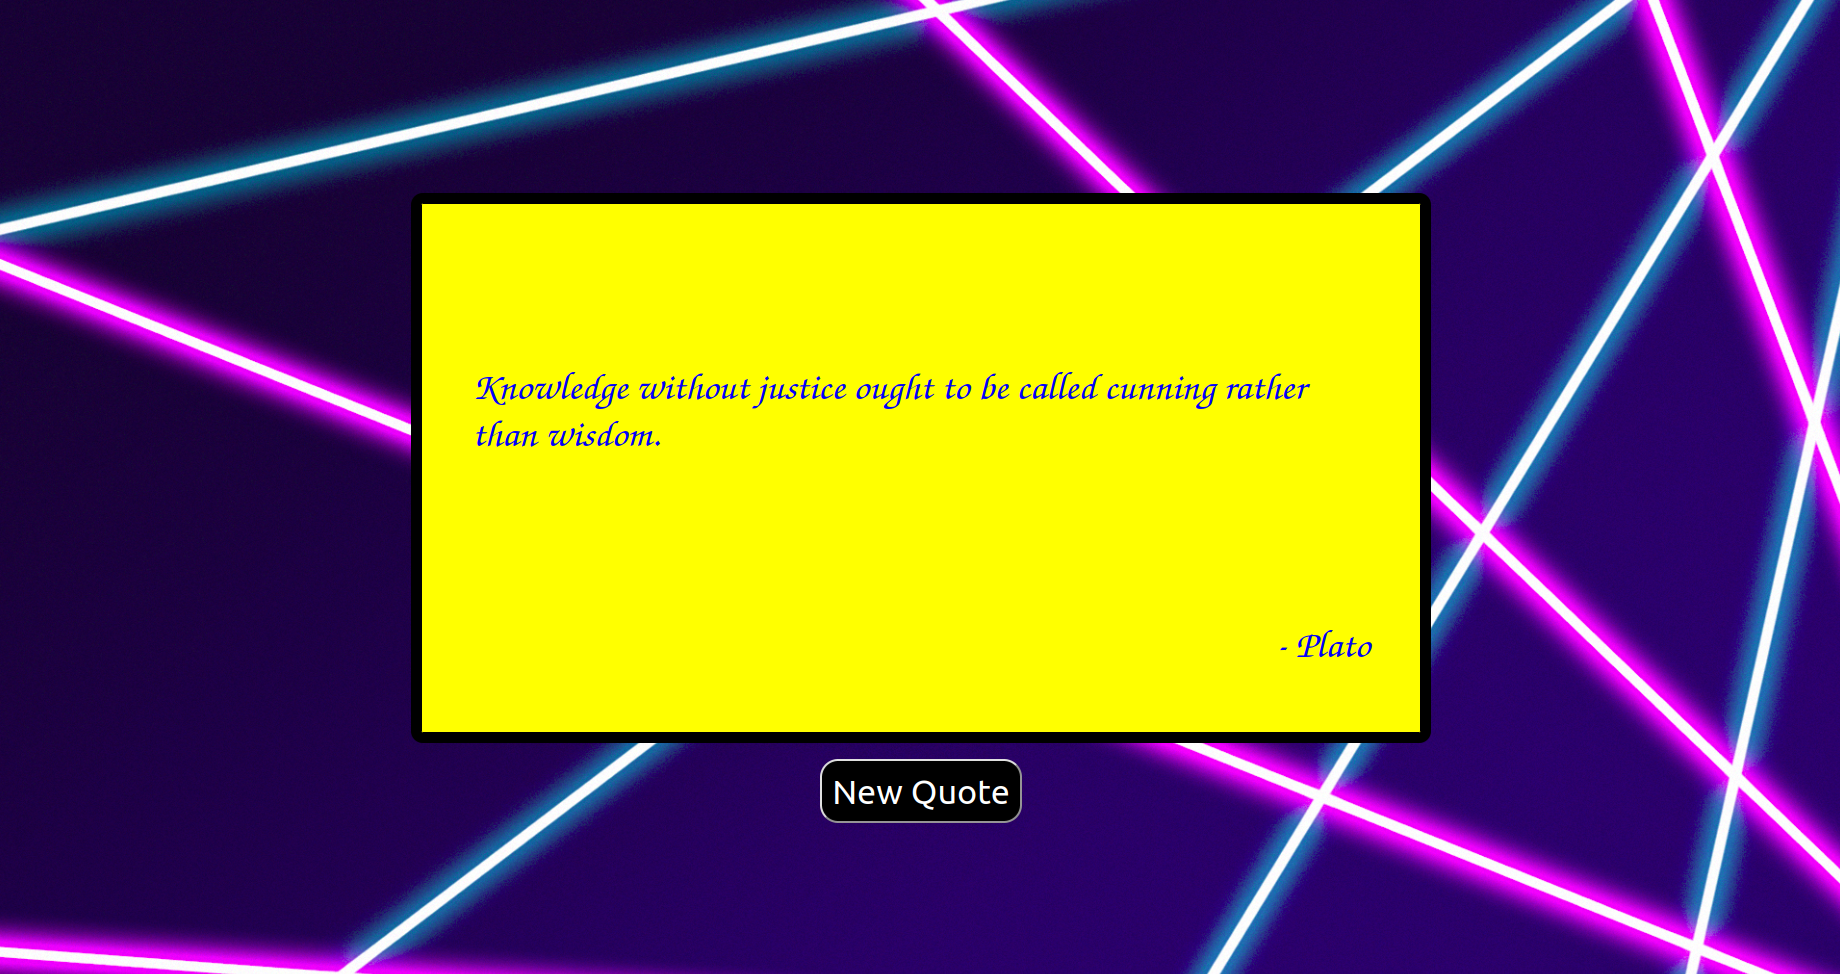
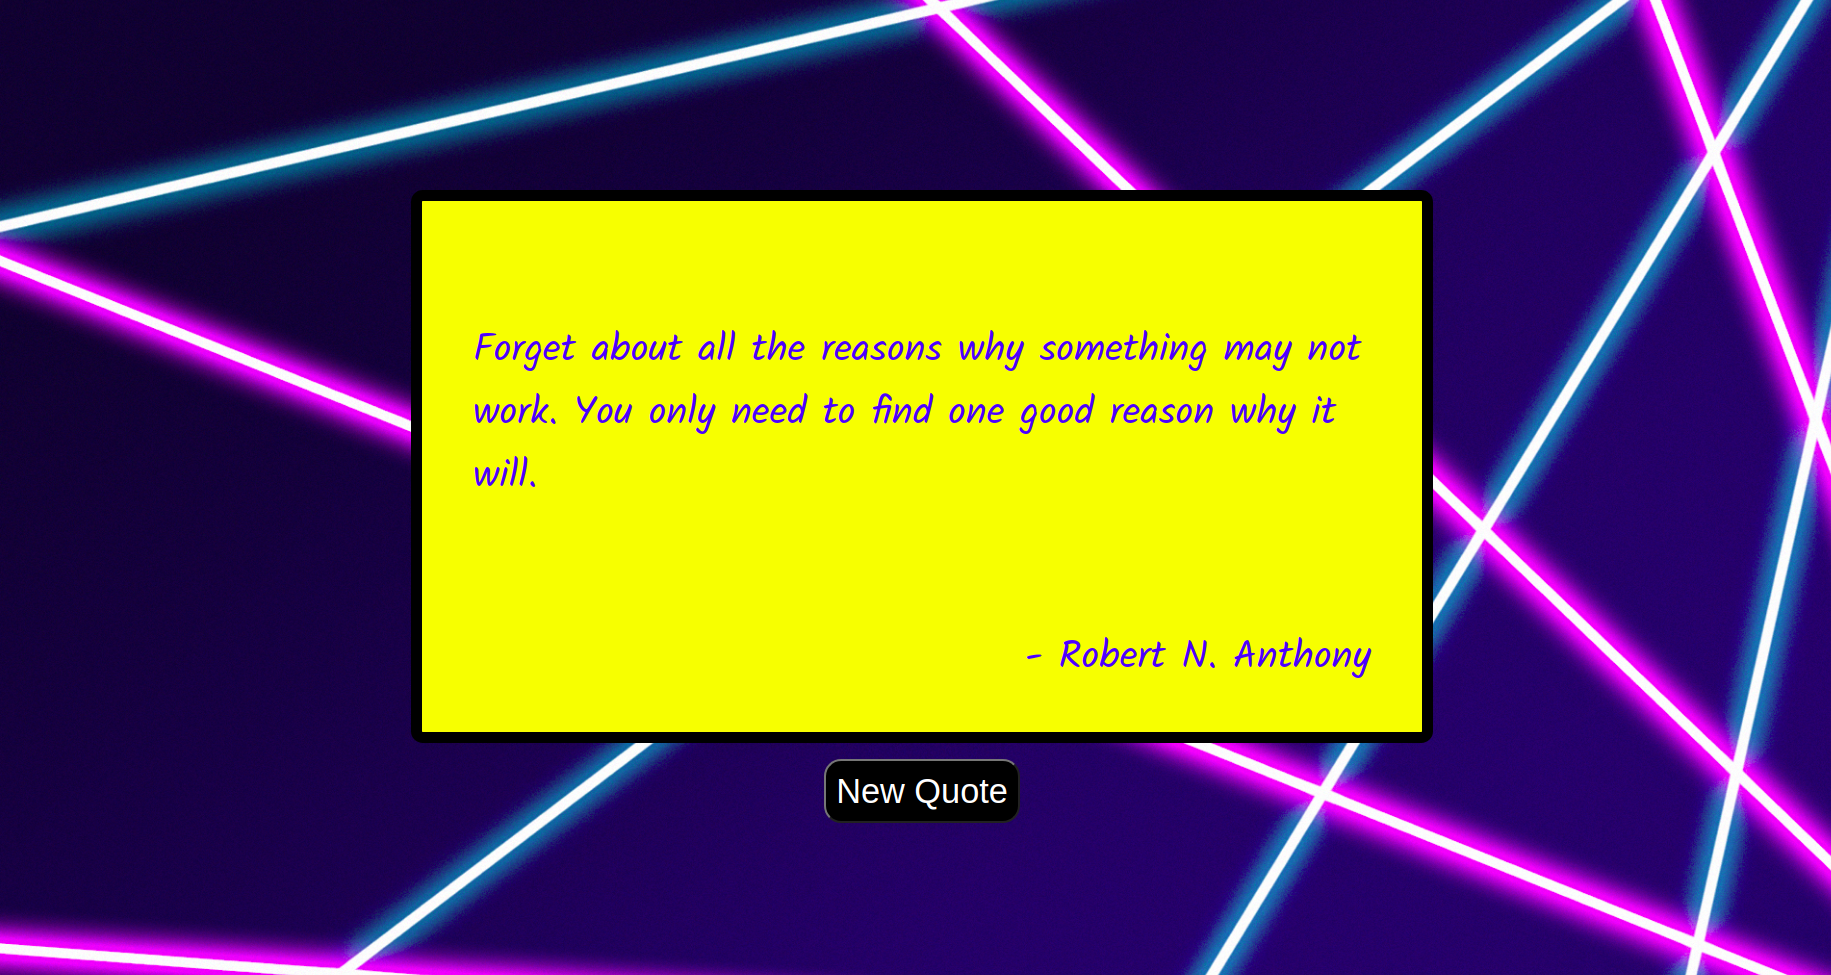
changed font

diff --git a/style.css b/style.css
@@ -1,3 +1,5 @@
+@import url('https://fonts.googleapis.com/css?family=Kalam');
+
 body{
     margin: 0px;
     padding: 0px;
@@ -22,9 +24,9 @@ body{
       height: 90%;
       margin: auto;
       font-size: 4vmin;
+      font-family: Kalam;
       background-color: yellow;
-      font-family: cursive;
-
+      
       border-style: solid;
       border-width: 0.3em;
       border-radius: 0.3em;
